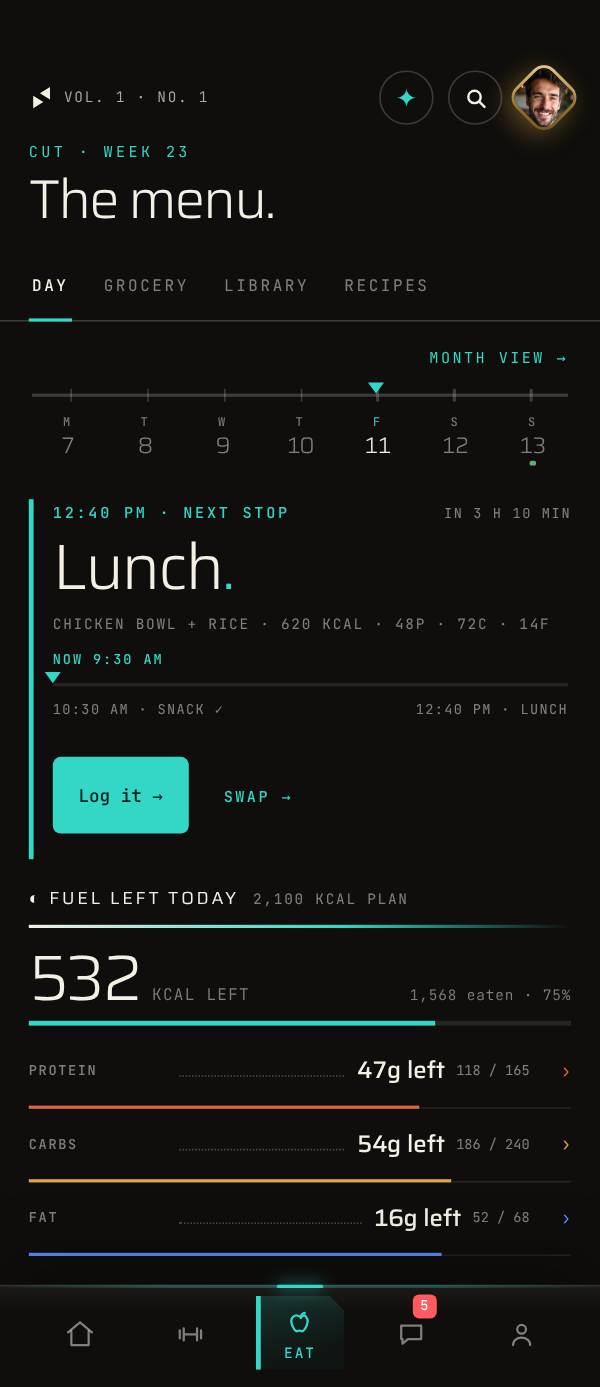
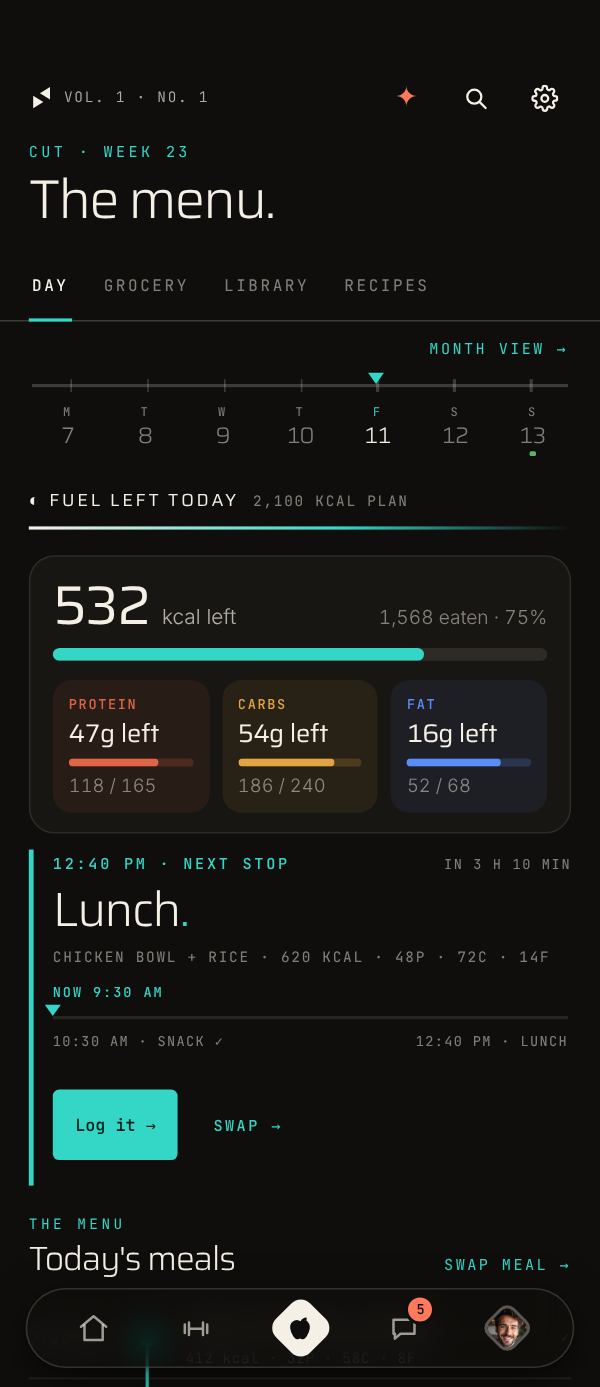
Website: re-shoot every app screenshot on the homepage and the app page
The app's chrome, Home, Eat, Train, the Wall, Radio, Habits and the profile
all changed after the 10-14 captures. All 17 are re-shot from the signed-out
preview by the recorded method (375x867 at 1.6, the clock pinned to Fri
2026-09-11 09:30 New York, the demo band dismissed):

- GetApp.html: the ten PNGs replaced in place (?v=20261026); the copy, the
  figures and the alt text follow the screens (Home's morning check-in and
  today's call, Eat's fuel left above the next meal, the Wall's PR story,
  tap-to-tick Habits with its week chart, the profile's Shape Score).
- index.html: new -v3 JPEGs for the loop strip and the journey rail (the
  -v2 files removed); the four loop rings re-measured off the new captures
  and the Eat, grocery and Wall windows re-cropped. The price phone shares
  the Get App Home PNG and its ?v.
- tests/homepage-climb.test.mjs: the rings re-pinned in image pixels.

Claude-Session: https://claude.ai/code/session_01PffP1rUX8fL3Xxh26fzuHv

diff --git a/public/newdesign/GetApp.html b/public/newdesign/GetApp.html
@@ -312,11 +312,11 @@
           <div class="time">06:45</div>
           <div class="eb">WAKE &#183; HOME</div>
           <h2>Today, at a glance.</h2>
-          <p>The Shape Daily: the station, your week, the check-in and the next stop on your day. Skim it in five seconds, dive in if you want.</p>
-          <div class="num"><b>&#9632;</b> Next stop &#183; Lower Push &#8212; Peak &#183; check-in due</div>
+          <p>The Shape Daily: the station, your week, the morning check-in with your water, and today&rsquo;s call. Skim it in five seconds, dive in if you want.</p>
+          <div class="num"><b>&#9632;</b> Today&rsquo;s call &#183; Lower Push &#8212; Peak &#183; check-in, 15 sec</div>
           <span class="exlabel">Example member</span>
         </div>
-        <div class="beat-ph"><div class="ph"><div class="ph-scr"><img src="/newdesign/getapp-home-v5.png?v=20261014" width="600" height="1387" alt="The app&rsquo;s Home screen: Shape Radio, the week strip, the check-in due and the next stop on the day" decoding="async"></div></div></div>
+        <div class="beat-ph"><div class="ph"><div class="ph-scr"><img src="/newdesign/getapp-home-v5.png?v=20261026" width="600" height="1387" alt="The app&rsquo;s Home screen: Shape Radio, the week strip, the morning check-in with water, and today&rsquo;s call" decoding="async"></div></div></div>
       </section>
       <section class="beat" style="--sky:rgba(255,180,84,.08)">
         <div class="beat-copy">
@@ -327,7 +327,7 @@
           <div class="num"><b>&#9632;</b> 532 kcal left &#183; protein 118 / 165</div>
           <span class="exlabel">Example member</span>
         </div>
-        <div class="beat-ph"><div class="ph"><div class="ph-scr"><img src="/newdesign/getapp-nutri-v3.png?v=20261014" width="600" height="1387" alt="The app&rsquo;s Eat screen: the next meal with Log it and Swap, then the fuel left today by calories and macro" loading="lazy" decoding="async"></div></div></div>
+        <div class="beat-ph"><div class="ph"><div class="ph-scr"><img src="/newdesign/getapp-nutri-v3.png?v=20261026" width="600" height="1387" alt="The app&rsquo;s Eat screen: the fuel left today by calories and macro, then the next meal with Log it and Swap" loading="lazy" decoding="async"></div></div></div>
       </section>
       <section class="beat" style="--sky:rgba(52,214,197,.10)">
         <div class="beat-copy">
@@ -338,18 +338,18 @@
           <div class="num"><b>&#9632;</b> 6 moves &#183; 54 min &#183; RPE 8</div>
           <span class="exlabel">Example member</span>
         </div>
-        <div class="beat-ph"><div class="ph"><div class="ph-scr"><img src="/newdesign/getapp-train-v3.png?v=20261014" width="600" height="1387" alt="The app&rsquo;s Train screen: today&rsquo;s session with its coach and a Start button, then the program move by move with sets and loads" loading="lazy" decoding="async"></div></div></div>
+        <div class="beat-ph"><div class="ph"><div class="ph-scr"><img src="/newdesign/getapp-train-v3.png?v=20261026" width="600" height="1387" alt="The app&rsquo;s Train screen: the calories burned this week, today&rsquo;s session with its coach and a Start button, then the program move by move with sets and loads" loading="lazy" decoding="async"></div></div></div>
       </section>
       <section class="beat" style="--sky:rgba(52,214,197,.08)">
         <div class="beat-copy">
           <div class="time">10:15</div>
           <div class="eb">LOGGED &#183; THE WALL</div>
           <h2>Records, on the wall.</h2>
-          <p>Every personal best lands on a board your people can see, with the whole session under it and your coach&rsquo;s co-sign.</p>
+          <p>Every personal best lands on a board your people can see, with your note, the whole session a tap away and your coach&rsquo;s co-sign.</p>
           <div class="num"><b>&#9632;</b> 245 lb &#183; new PR</div>
           <span class="exlabel">Example member</span>
         </div>
-        <div class="beat-ph"><div class="ph"><div class="ph-scr"><img src="/newdesign/getapp-wall-v1.png?v=20261014" width="600" height="1387" alt="The app&rsquo;s Wall: a personal best as a record plate, with the session&rsquo;s stats, heart-rate zones and trace beneath it" loading="lazy" decoding="async"></div></div></div>
+        <div class="beat-ph"><div class="ph"><div class="ph-scr"><img src="/newdesign/getapp-wall-v1.png?v=20261026" width="600" height="1387" alt="The app&rsquo;s Wall: a deadlift PR as a story, 245 lb with the member&rsquo;s note, a link to the full session and the coach&rsquo;s co-sign beneath it" loading="lazy" decoding="async"></div></div></div>
       </section>
       <section class="beat" style="--sky:rgba(238,243,240,.05)">
         <div class="beat-copy">
@@ -360,7 +360,7 @@
           <div class="num"><b>&#9632;</b> 89 items &#183; ~$44 to go</div>
           <span class="exlabel">Example member</span>
         </div>
-        <div class="beat-ph"><div class="ph"><div class="ph-scr"><img src="/newdesign/getapp-grocery-v2.png?v=20261014" width="600" height="1387" alt="The app&rsquo;s grocery list, shopped by aisle with the aisles stepped across the top, a running cost and Produce open" loading="lazy" decoding="async"></div></div></div>
+        <div class="beat-ph"><div class="ph"><div class="ph-scr"><img src="/newdesign/getapp-grocery-v2.png?v=20261026" width="600" height="1387" alt="The app&rsquo;s grocery list, shopped by aisle with the aisles stepped across the top, a running cost and Produce open" loading="lazy" decoding="async"></div></div></div>
       </section>
       <section class="beat" style="--sky:rgba(52,214,197,.12)">
         <div class="beat-copy">
@@ -371,7 +371,7 @@
           <div class="num"><b>&#9632;</b> Live &#183; Shape Sets &#183; Nora</div>
           <span class="exlabel">Example member</span>
         </div>
-        <div class="beat-ph"><div class="ph"><div class="ph-scr"><img src="/newdesign/getapp-radio-v3.png?v=20261014" width="600" height="1387" alt="The app&rsquo;s Radio page: the Signal Field drawing the station&rsquo;s live spectrum over a field of dots" loading="lazy" decoding="async"></div></div></div>
+        <div class="beat-ph"><div class="ph"><div class="ph-scr"><img src="/newdesign/getapp-radio-v3.png?v=20261026" width="600" height="1387" alt="The app&rsquo;s Radio page: the Signal Field drawing the station&rsquo;s live spectrum over a field of dots, with Tune in and the Live, Shape Sets and Nora tabs below" loading="lazy" decoding="async"></div></div></div>
       </section>
       <section class="beat" style="--sky:rgba(120,110,255,.10)">
         <div class="beat-copy">
@@ -382,18 +382,18 @@
           <div class="num"><b>&#9632;</b> 2,104 online now &#183; Feed &#183; Team &#183; Channels</div>
           <span class="exlabel">Example member</span>
         </div>
-        <div class="beat-ph"><div class="ph"><div class="ph-scr"><img src="/newdesign/getapp-community-v2.png?v=20261014" width="600" height="1387" alt="The app&rsquo;s Community feed: members&rsquo; posts with who is online along the top" loading="lazy" decoding="async"></div></div></div>
+        <div class="beat-ph"><div class="ph"><div class="ph-scr"><img src="/newdesign/getapp-community-v2.png?v=20261026" width="600" height="1387" alt="The app&rsquo;s Community feed: members&rsquo; posts with who is online along the top" loading="lazy" decoding="async"></div></div></div>
       </section>
       <section class="beat" style="--sky:rgba(120,110,255,.07)">
         <div class="beat-copy">
           <div class="time">21:30</div>
           <div class="eb">WIND DOWN &#183; HABITS</div>
           <h2>Small things, tracked.</h2>
-          <p>Tap to log a habit, the ones to keep and the ones to quit. Earn Shape Score for every check, and see the last seven days as a grid.</p>
-          <div class="num"><b>&#9632;</b> 9 pts on the table today</div>
+          <p>Tap a habit to tick it, the ones to keep and the ones to quit. Every tick earns Shape Score, and a week or month chart shows how many you kept.</p>
+          <div class="num"><b>&#9632;</b> 9 pts to earn today &#183; 3 to go</div>
           <span class="exlabel">Example member</span>
         </div>
-        <div class="beat-ph"><div class="ph"><div class="ph-scr"><img src="/newdesign/getapp-habits-v1.png?v=20261014" width="600" height="1387" alt="The app&rsquo;s Habits ledger: each habit tapped to log, with the last seven days as a grid" loading="lazy" decoding="async"></div></div></div>
+        <div class="beat-ph"><div class="ph"><div class="ph-scr"><img src="/newdesign/getapp-habits-v1.png?v=20261026" width="600" height="1387" alt="The app&rsquo;s Habits page: three habits to tick with a tap, the points to earn today, and the week as a chart" loading="lazy" decoding="async"></div></div></div>
       </section>
       <section class="beat" style="--sky:rgba(230,195,115,.10)">
         <div class="beat-copy">
@@ -404,18 +404,18 @@
           <div class="num"><b>&#9632;</b> 1,284 pts &#183; Tempo &#183; 43% of the way to Form</div>
           <span class="exlabel">Example member</span>
         </div>
-        <div class="beat-ph"><div class="ph"><div class="ph-scr"><img src="/newdesign/getapp-score-v3.png?v=20261014" width="600" height="1387" alt="The app&rsquo;s Shape Score: the points total, the tier held and the ladder above it" loading="lazy" decoding="async"></div></div></div>
+        <div class="beat-ph"><div class="ph"><div class="ph-scr"><img src="/newdesign/getapp-score-v3.png?v=20261026" width="600" height="1387" alt="The app&rsquo;s Shape Score: the points total, the tier held and the ladder above it" loading="lazy" decoding="async"></div></div></div>
       </section>
       <section class="beat" style="--sky:rgba(230,195,115,.07)">
         <div class="beat-copy">
           <div class="time sun">SEASON</div>
           <div class="eb">THE CLIMB &#183; PROFILE</div>
           <h2>A profile that&rsquo;s alive.</h2>
-          <p>Your climb, your Shape Score, PRs and playlists on a living page that grows as you do. Public or private; it is yours.</p>
+          <p>Your climb and your Shape Score up top, your PRs and playlists a tab below, on a living page that grows as you do. Public or private; it is yours.</p>
           <div class="num"><b>&#9632;</b> First half-marathon &#183; 74 days out</div>
           <span class="exlabel">Example member</span>
         </div>
-        <div class="beat-ph"><div class="ph"><div class="ph-scr"><img src="/newdesign/getapp-profile-v2.png?v=20261014" width="600" height="1387" alt="The app&rsquo;s member profile: the ascent drawn over the cover photo, with PRs and playlists below" loading="lazy" decoding="async"></div></div></div>
+        <div class="beat-ph"><div class="ph"><div class="ph-scr"><img src="/newdesign/getapp-profile-v2.png?v=20261026" width="600" height="1387" alt="The app&rsquo;s member profile: the climb drawn over the cover photo, the coach, and the Shape Score with its four parts" loading="lazy" decoding="async"></div></div></div>
       </section>
     </div>
 

diff --git a/public/newdesign/index.html b/public/newdesign/index.html
@@ -945,19 +945,19 @@
     <div class="mo-grid" id="mo-grid">
       <div class="mo on">
         <div class="eb">Eat · the menu</div><h3>The ledger ticks.</h3>
-        <div class="shot"><img src="/newdesign/home-eat-v2.jpg" width="600" height="1387" loading="lazy" decoding="async" alt="The Eat screen: lunch up next with Log it and Swap, then the fuel left today, 532 kcal, and what is left of each macro" style="--y:34%"><span class="hl" style="top:50.18%;height:20.63%"></span></div>
+        <div class="shot"><img src="/newdesign/home-eat-v3.jpg" width="600" height="1387" loading="lazy" decoding="async" alt="The Eat screen: the fuel left today, 532 kcal, and what is left of each macro, then lunch up next with Log it and Swap" style="--y:19%"><span class="hl" style="top:27.06%;height:45.38%"></span></div>
       </div>
       <div class="mo">
         <div class="eb">Eat · the shop</div><h3>The list writes itself.</h3>
-        <div class="shot"><img src="/newdesign/home-grocery-v2.jpg" width="600" height="1387" loading="lazy" decoding="async" alt="The grocery list: shopped by aisle, with the aisles stepped across the top and Produce open, 24 to get" style="--y:38%"><span class="hl" style="top:37.12%;height:25.75%"></span></div>
+        <div class="shot"><img src="/newdesign/home-grocery-v3.jpg" width="600" height="1387" loading="lazy" decoding="async" alt="The grocery list: shopped by aisle, with the aisles stepped across the top and Produce open, 24 to get" style="--y:34%"><span class="hl" style="top:44.05%;height:25.75%"></span></div>
       </div>
       <div class="mo">
         <div class="eb">Train · in the session</div><h3>A set logs.</h3>
-        <div class="shot"><img src="/newdesign/home-session-v2.jpg" width="600" height="1387" loading="lazy" decoding="async" alt="The live session player: back squat, five sets of three, set one up with its load and reps" style="--y:10.75%"><span class="hl" style="top:41.61%;height:16.75%"></span></div>
+        <div class="shot"><img src="/newdesign/home-session-v3.jpg" width="600" height="1387" loading="lazy" decoding="async" alt="The live session player: back squat, five sets of three, set one up with its load and reps" style="--y:10.75%"><span class="hl" style="top:41.61%;height:16.75%"></span></div>
       </div>
       <div class="mo">
         <div class="eb">Community · the Wall</div><h3>A PR lands.</h3>
-        <div class="shot"><img src="/newdesign/home-feed-v2.jpg" width="600" height="1387" loading="lazy" decoding="async" alt="The Wall in Chat: a deadlift PR with the record stamped above the session's own stats" style="--y:25.1%"><span class="hl" style="top:38.23%;height:23.5%;left:1.25%;right:1.25%"></span></div>
+        <div class="shot"><img src="/newdesign/home-feed-v3.jpg" width="600" height="1387" loading="lazy" decoding="async" alt="The Wall in Chat: a deadlift PR, 245 lb under the headline, with the member's note and the coach's co-sign below" style="--y:0%"><span class="hl" style="top:16.88%;height:30.88%;left:1.25%;right:1.25%"></span></div>
       </div>
     </div>
     <div style="margin-top:20px"><span class="exlabel">Example member · captured from the app's signed-out preview</span></div>
@@ -1024,7 +1024,7 @@
       <div class="jph" id="jph">
         <div class="appph">
           <span class="isl"></span>
-          <img id="jph-img" src="/newdesign/home-profile-v2.jpg" width="600" height="1387" loading="lazy" decoding="async" alt="A member's living profile: their tier, their streak, and the climb drawn across the terrain" style="--y:0%">
+          <img id="jph-img" src="/newdesign/home-profile-v3.jpg" width="600" height="1387" loading="lazy" decoding="async" alt="A member's living profile: their tier, their streak, and the climb drawn across the terrain" style="--y:0%">
         </div>
         <div class="phcap"><b id="jph-t">Your living profile</b><span id="jph-c">The tier, the streak and the climb — drawn from day one on the terrain that is yours.</span></div>
       </div>
@@ -1082,12 +1082,12 @@
       </div>
       <div>
         <!-- ⚠ DELIBERATELY NOT THE SCORE CAPTURE. The journey rail's stage 04 already
-             carries home-score-v2.jpg under the SAME headline and the SAME sentence, so
+             carries home-score-v3.jpg under the SAME headline and the SAME sentence, so
              this phone was the second of two identical Shape Score snapshots on one page
              - the reader scrolled past the same frame twice and learned nothing the
              second time. The price section is the one place someone is deciding what $5
              buys, so it shows the screen that answers that in a single frame: the
-             station, the week, the check-in due and the next stop on the day at once.
+             station, the week, the morning check-in and today's call at once.
              It is a PNG among the page's JPEG captures because that is the Home capture
              that EXISTS (600x1387, shared byte-for-byte with GetApp.html's step 1, same
              ?v= so the two share one cache entry). It is lazy-loaded and several screens
@@ -1095,9 +1095,9 @@
              Guarded by tests/homepage-climb.test.mjs. -->
         <div class="appph">
           <span class="isl"></span>
-          <img src="/newdesign/getapp-home-v5.png?v=20261014" width="600" height="1387" loading="lazy" decoding="async" alt="The app's Home screen: Shape Radio, this week's calendar, the check-in due, and the next stop on the day" style="--y:0%">
+          <img src="/newdesign/getapp-home-v5.png?v=20261026" width="600" height="1387" loading="lazy" decoding="async" alt="The app's Home screen: Shape Radio, this week's calendar, the morning check-in with water, and today's call" style="--y:0%">
         </div>
-        <div class="phcap"><b>Today, at a glance</b>The Shape Daily: the station, your week, the check-in and the next stop on your day.<span class="lbl-row"><span class="exlabel">Example member</span></span></div>
+        <div class="phcap"><b>Today, at a glance</b>The Shape Daily: the station, your week, the morning check-in and today's call.<span class="lbl-row"><span class="exlabel">Example member</span></span></div>
       </div>
     </div>
   </div>
@@ -1487,26 +1487,26 @@
      also what the MARKUP ships, so the reduced-motion and no-JS renders (which
      never reach this code) are already showing stage 1 rather than a blank frame. */
   var PH=[
-    ['/newdesign/home-profile-v2.jpg','Your living profile',
+    ['/newdesign/home-profile-v3.jpg','Your living profile',
      'The tier, the streak and the climb \u2014 drawn from day one on the terrain that is yours.',
      "A member's living profile: their tier, their streak, and the climb drawn across the terrain"],
-    ['/newdesign/home-match-v2.jpg','Find a coach',
+    ['/newdesign/home-match-v3.jpg','Find a coach',
      'Vetted trainers and RDs, browsed and messaged from inside the app before you commit.',
      'The foot of the Eat screen: your nutritionist, their note, and the find-a-nutritionist row for vetted RDs'],
-    ['/newdesign/home-session-v2.jpg','The live session',
+    ['/newdesign/home-session-v3.jpg','The live session',
      'The plan lands written. You log the set and the app keeps the count.',
      'The live session player: back squat, five sets of three, set one up with its load and reps'],
-    ['/newdesign/home-score-v2.jpg','The Shape Score',
+    ['/newdesign/home-score-v3.jpg','The Shape Score',
      'One number over everything you log, with the ladder it climbs.',
      'The Shape Score page: the current standing, the tier, and the ladder from Raw to Legend'],
-    ['/newdesign/home-feed-v2.jpg','The Wall',
+    ['/newdesign/home-feed-v3.jpg','The Wall',
      'Your records land where your coach and your crew can see them.',
-     "The Wall in Chat: a deadlift PR with the record stamped above the session's own stats"]
+     "The Wall in Chat: a deadlift PR, 245 lb under the headline, with the member's note and the coach's co-sign below"]
   ];
   var phImg=document.getElementById('jph-img'), phT=document.getElementById('jph-t'),
       phC=document.getElementById('jph-c'), phIdx=0;
   /* Decoded up front so a stage change never shows an empty frame while the next
-     capture downloads — they are 43-62 KB each and the rail is several screens
+     capture downloads — they are 57-83 KB each and the rail is several screens
      below the fold by the time any of this runs. */
   for(var pp=1;pp<PH.length;pp++){ var pi=new Image(); pi.src=PH[pp][0]; }
 
